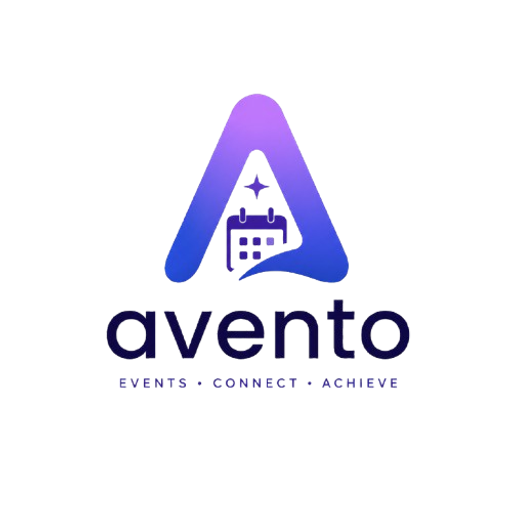
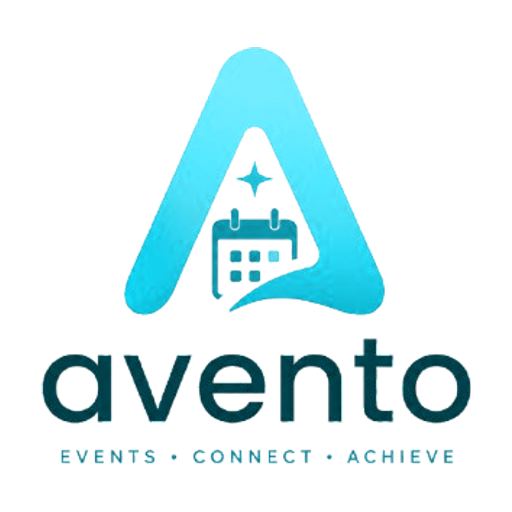
few small changes

Changed region(s): [[0.0625, 0.0938, 0.9375, 0.8438], [0.375, 0.875, 0.9062, 0.9062], [0.0938, 0.875, 0.3438, 0.9062]]

diff --git a/client/src/components/EventCard.jsx b/client/src/components/EventCard.jsx
@@ -1,3 +1,4 @@
+import { useState, useEffect } from 'react';
 import { useAuth } from '../context/AuthContext';
 import { Link } from 'react-router-dom';
 import { 
@@ -12,6 +13,20 @@ import {
 
 const EventCard = ({ event, index = 0, isRegistered, isPendingRegistration, isOrganizer, joinTeamEnabled, requestStatus, onRegister, onJoinTeam, isSubmitting, onViewOrganizers, onViewScores, onCancelRegister }) => {
   const { user } = useAuth();
+  const [showPosterZoom, setShowPosterZoom] = useState(false);
+
+  useEffect(() => {
+    if (!showPosterZoom) return;
+    const handleKeyDown = (e) => {
+      if (e.key === 'Escape') setShowPosterZoom(false);
+    };
+    document.addEventListener('keydown', handleKeyDown);
+    document.body.style.overflow = 'hidden';
+    return () => {
+      document.removeEventListener('keydown', handleKeyDown);
+      document.body.style.overflow = 'unset';
+    };
+  }, [showPosterZoom]);
   
   const formatDate = (dateString) => {
     const options = { weekday: 'short', month: 'short', day: 'numeric', year: 'numeric', hour: '2-digit', minute: '2-digit' };
@@ -48,30 +63,45 @@ const EventCard = ({ event, index = 0, isRegistered, isPendingRegistration, isOr
   const randomRotation = rotationClasses[index % rotationClasses.length];
 
   return (
-    <div 
-      className={`animate-fade-in-up polaroid scrapbook-panel-hover relative flex w-full min-w-0 flex-col h-full group ${randomRotation}`}
-      style={{ animationDelay: `${staggerDelay}ms` }}
-    >
-      {/* Decorative Tape/Pin */}
-      <div className="absolute -top-3 left-1/2 -translate-x-1/2 z-20">
-        {index % 2 === 0 ? <div className="tape tape-1"></div> : <PinDoodle className="w-8 h-8 text-pastel-coral" />}
-      </div>
+    <>
+      <div 
+        className={`animate-fade-in-up polaroid relative flex w-full min-w-0 flex-col h-full group ${randomRotation}`}
+        style={{ animationDelay: `${staggerDelay}ms` }}
+      >
+        {/* Decorative Tape/Pin */}
+        <div className="absolute -top-3 left-1/2 -translate-x-1/2 z-20">
+          {index % 2 === 0 ? <div className="tape tape-1"></div> : <PinDoodle className="w-8 h-8 text-pastel-coral" />}
+        </div>
 
-      {/* Decorative Category Doodle */}
-      <div className="absolute -right-2 -top-2 z-20 animate-float-slow">
-        {catStyle.doodle}
-      </div>
+        {/* Decorative Category Doodle */}
+        <div className="absolute -right-2 -top-2 z-20 animate-float-slow">
+          {catStyle.doodle}
+        </div>
 
-      {/* Event Banner */}
-      <div className="relative h-72 w-full overflow-hidden rounded-xl border-2 border-pastel-lavender/20 bg-slate-50 mb-4 sm:h-96">
-        <img
-          src={event.imageUrl}
-          alt={event.title}
-          className="w-full h-full object-contain group-hover:scale-105 transition-transform duration-700 ease-out-expo"
-          onError={(e) => {
-            e.target.src = 'https://images.unsplash.com/photo-1540575467063-178a50c2df87?w=800';
-          }}
-        />
+        {/* Event Banner (Click to Zoom) */}
+        <div 
+          onClick={() => setShowPosterZoom(true)}
+          className="relative h-48 sm:h-52 w-full overflow-hidden rounded-xl border-2 border-pastel-lavender/20 bg-slate-50 mb-3 cursor-pointer group/poster"
+          title="Click to zoom poster & view details"
+        >
+          <img
+            src={event.imageUrl}
+            alt={event.title}
+            className="w-full h-full object-contain"
+            onError={(e) => {
+              e.target.src = 'https://images.unsplash.com/photo-1540575467063-178a50c2df87?w=800';
+            }}
+          />
+
+          {/* Hover Zoom Badge */}
+          <div className="absolute inset-0 bg-slate-900/30 opacity-0 group-hover/poster:opacity-100 transition-opacity duration-200 flex items-center justify-center">
+            <span className="bg-white/95 dark:bg-slate-900/95 backdrop-blur-md text-text-primary text-[11px] font-bold px-3 py-1.5 rounded-xl border border-white/40 shadow-lg flex items-center gap-1.5 transform scale-95 group-hover/poster:scale-100 transition-transform">
+              <svg xmlns="http://www.w3.org/2000/svg" className="h-3.5 w-3.5 text-cyan-500" fill="none" viewBox="0 0 24 24" stroke="currentColor">
+                <path strokeLinecap="round" strokeLinejoin="round" strokeWidth={2.5} d="M21 21l-6-6m2-5a7 7 0 11-14 0 7 7 0 0114 0zM10 7v6m3-3H7" />
+              </svg>
+              View Full Poster
+            </span>
+          </div>
 
         {/* Category Badge */}
         <span className={`absolute bottom-3 left-3 text-[10px] font-bold px-3 py-1 rounded-xl border-2 backdrop-blur-md shadow-sm bg-white/90 ${catStyle.text} ${catStyle.border} uppercase tracking-wider`}>
@@ -97,9 +127,9 @@ const EventCard = ({ event, index = 0, isRegistered, isPendingRegistration, isOr
       </div>
 
       {/* Card Content */}
-      <div className="flex flex-col flex-grow px-2">
+      <div className="flex flex-col flex-grow px-1">
         {/* Date & Time */}
-        <div className="flex items-center text-xs text-pastel-coral font-bold mb-2 tracking-wider uppercase font-quicksand">
+        <div className="flex items-center text-xs text-pastel-coral font-bold mb-1.5 tracking-wider uppercase font-quicksand">
           <svg xmlns="http://www.w3.org/2000/svg" className="h-4 w-4 mr-1.5" fill="none" viewBox="0 0 24 24" stroke="currentColor">
             <path strokeLinecap="round" strokeLinejoin="round" strokeWidth={2} d="M8 7V3m8 4V3m-9 8h10M5 21h14a2 2 0 002-2V7a2 2 0 00-2-2H5a2 2 0 00-2 2v12a2 2 0 002 2z" />
           </svg>
@@ -107,20 +137,20 @@ const EventCard = ({ event, index = 0, isRegistered, isPendingRegistration, isOr
         </div>
 
         {/* Title */}
-        <h3 className="text-xl font-heading font-bold text-text-primary mb-2">
+        <h3 className="text-lg font-heading font-bold text-text-primary mb-1.5 line-clamp-2" title={event.title}>
           {event.title}
         </h3>
 
         {/* Description */}
-        <p className="text-sm font-body text-text-secondary mb-4 flex-grow leading-relaxed whitespace-pre-wrap">
+        <p className="text-xs sm:text-sm font-body text-text-secondary mb-3 flex-grow leading-relaxed line-clamp-3 whitespace-pre-wrap">
           {event.description}
         </p>
 
         {/* Wavy divider */}
[2 lines of base64/hex data omitted]
 
         {/* Venue & Organizers Count */}
-        <div className="flex items-center justify-between text-xs text-text-secondary mb-4 font-bold font-quicksand">
+        <div className="flex items-center justify-between text-xs text-text-secondary mb-3 font-bold font-quicksand">
           <div className="flex items-center">
             <svg xmlns="http://www.w3.org/2000/svg" className="h-4 w-4 mr-1.5 text-pastel-lavender" fill="none" viewBox="0 0 24 24" stroke="currentColor">
               <path strokeLinecap="round" strokeLinejoin="round" strokeWidth={2} d="M17.657 16.657L13.414 20.9a1.998 1.998 0 01-2.827 0l-4.244-4.243a8 8 0 1111.314 0z" />
@@ -135,7 +165,7 @@ const EventCard = ({ event, index = 0, isRegistered, isPendingRegistration, isOr
 
         {/* Capacity Bar */}
         {event.registration_type !== 'team' && (
-          <div className="space-y-1.5 mb-5">
+          <div className="space-y-1.5 mb-3">
             <div className="flex items-center justify-between text-[10px] font-bold tracking-wide font-quicksand">
               <span className="text-text-secondary uppercase">Seats Filled</span>
               <span className={isFull ? 'text-pastel-coral' : 'text-pastel-lavender'}>
@@ -336,6 +366,161 @@ const EventCard = ({ event, index = 0, isRegistered, isPendingRegistration, isOr
         </div>
       </div>
     </div>
+
+    {/* ════════════ ZOOMED POSTER & DETAILS MODAL ════════════ */}
+    {showPosterZoom && (
+      <div 
+        className="fixed inset-0 z-[99999] flex items-center justify-center p-3 sm:p-6 bg-slate-950/75 backdrop-blur-md animate-fade-in"
+        onClick={() => setShowPosterZoom(false)}
+      >
+        <div 
+          className="relative w-full max-w-4xl max-h-[90vh] bg-white dark:bg-slate-900 border-2 border-cyan-500/30 rounded-2xl sm:rounded-3xl shadow-2xl overflow-hidden flex flex-col animate-fade-in-scale"
+          onClick={(e) => e.stopPropagation()}
+        >
+          {/* Header */}
+          <div className="flex items-center justify-between px-4 sm:px-6 py-3.5 border-b border-slate-100 dark:border-slate-800 bg-white/95 dark:bg-slate-900/95 backdrop-blur-md sticky top-0 z-30">
+            <div className="flex items-center gap-2.5 min-w-0 pr-4">
+              <span className={`text-[10px] font-bold px-2.5 py-1 rounded-lg border uppercase tracking-wider ${catStyle.text} ${catStyle.border} bg-white/80 dark:bg-slate-800`}>
+                {event.category}
+              </span>
+              <h2 className="text-sm sm:text-lg font-heading font-bold text-text-primary truncate">{event.title}</h2>
+            </div>
+            <button
+              onClick={() => setShowPosterZoom(false)}
+              className="p-1.5 sm:p-2 rounded-xl text-slate-400 hover:text-red-500 hover:bg-red-500/10 transition-colors flex-shrink-0"
+              title="Close (Esc)"
+            >
+              <svg xmlns="http://www.w3.org/2000/svg" className="h-5 w-5 sm:h-6 sm:w-6" fill="none" viewBox="0 0 24 24" stroke="currentColor">
+                <path strokeLinecap="round" strokeLinejoin="round" strokeWidth={2.5} d="M6 18L18 6M6 6l12 12" />
+              </svg>
+            </button>
+          </div>
+
+          {/* Scrollable Modal Body */}
+          <div className="overflow-y-auto p-4 sm:p-6 space-y-6 flex-grow">
+            {/* Full Poster Image */}
+            <div className="relative w-full rounded-2xl overflow-hidden border border-slate-200 dark:border-slate-800 bg-slate-950/5 dark:bg-slate-950 flex items-center justify-center p-2 sm:p-4 shadow-inner">
+              <img
+                src={event.imageUrl}
+                alt={event.title}
+                className="w-full max-h-[55vh] sm:max-h-[62vh] object-contain rounded-xl"
+                onError={(e) => {
+                  e.target.src = 'https://images.unsplash.com/photo-1540575467063-178a50c2df87?w=800';
+                }}
+              />
+            </div>
+
+            {/* Event Details Section */}
+            <div className="space-y-4">
+              {/* Badges */}
+              <div className="flex flex-wrap items-center gap-2">
+                <span className={`text-xs font-bold px-3 py-1 rounded-xl border-2 backdrop-blur-md shadow-sm bg-white/90 ${catStyle.text} ${catStyle.border} uppercase tracking-wider`}>
+                  {event.category}
+                </span>
+                {!isActive && (
+                  <span className="text-xs font-bold px-3 py-1 rounded-xl border-2 bg-red-50 text-red-500 border-red-200 uppercase tracking-wider">
+                    {event.status.toUpperCase()}
+                  </span>
+                )}
+                {event.registration_type === 'team' && (
+                  <span className="text-xs font-bold px-3 py-1 rounded-xl border-2 bg-cyan-500/10 text-cyan-600 border-cyan-500/30 uppercase tracking-wider flex items-center gap-1.5">
+                    👥 Team Event ({event.min_team_size || 1} - {event.max_team_size || 4} Members)
+                  </span>
+                )}
+              </div>
+
+              {/* Title */}
+              <h1 className="text-xl sm:text-2xl lg:text-3xl font-extrabold font-heading text-text-primary leading-tight">
+                {event.title}
+              </h1>
+
+              {/* 4-Card Info Grid */}
+              <div className="grid grid-cols-1 sm:grid-cols-2 lg:grid-cols-4 gap-3 pt-1">
+                <div className="p-3.5 rounded-2xl bg-slate-50 dark:bg-slate-800/60 border border-slate-200 dark:border-slate-700">
+                  <div className="text-[10px] font-bold text-pastel-coral uppercase tracking-wider mb-1 flex items-center gap-1">
+                    <svg xmlns="http://www.w3.org/2000/svg" className="h-3.5 w-3.5" fill="none" viewBox="0 0 24 24" stroke="currentColor">
+                      <path strokeLinecap="round" strokeLinejoin="round" strokeWidth={2} d="M8 7V3m8 4V3m-9 8h10M5 21h14a2 2 0 002-2V7a2 2 0 00-2-2H5a2 2 0 00-2 2v12a2 2 0 002 2z" />
+                    </svg>
+                    Date & Time
+                  </div>
+                  <div className="text-xs sm:text-sm font-bold text-text-primary">{formatDate(event.date)}</div>
+                </div>
+
+                <div className="p-3.5 rounded-2xl bg-slate-50 dark:bg-slate-800/60 border border-slate-200 dark:border-slate-700">
+                  <div className="text-[10px] font-bold text-cyan-600 dark:text-cyan-400 uppercase tracking-wider mb-1 flex items-center gap-1">
+                    <svg xmlns="http://www.w3.org/2000/svg" className="h-3.5 w-3.5" fill="none" viewBox="0 0 24 24" stroke="currentColor">
+                      <path strokeLinecap="round" strokeLinejoin="round" strokeWidth={2} d="M17.657 16.657L13.414 20.9a1.998 1.998 0 01-2.827 0l-4.244-4.243a8 8 0 1111.314 0z" />
+                      <path strokeLinecap="round" strokeLinejoin="round" strokeWidth={2} d="M15 11a3 3 0 11-6 0 3 3 0 016 0z" />
+                    </svg>
+                    Venue
+                  </div>
+                  <div className="text-xs sm:text-sm font-bold text-text-primary">{event.venue || 'Campus Venue'}</div>
+                </div>
+
+                <div className="p-3.5 rounded-2xl bg-slate-50 dark:bg-slate-800/60 border border-slate-200 dark:border-slate-700">
+                  <div className="text-[10px] font-bold text-yellow-600 dark:text-yellow-400 uppercase tracking-wider mb-1 flex items-center gap-1">
+                    <svg xmlns="http://www.w3.org/2000/svg" className="h-3.5 w-3.5" fill="none" viewBox="0 0 24 24" stroke="currentColor">
+                      <path strokeLinecap="round" strokeLinejoin="round" strokeWidth={2} d="M17 20h5v-2a3 3 0 00-5.356-1.857M17 20H7m10 0v-2c0-.656-.126-1.283-.356-1.857M7 20H2v-2a3 3 0 015.356-1.857M7 20v-2c0-.656.126-1.283.356-1.857m0 0a5.002 5.002 0 019.288 0M15 7a3 3 0 11-6 0 3 3 0 016 0zm6 3a2 2 0 11-4 0 2 2 0 014 0zM7 10a2 2 0 11-4 0 2 2 0 014 0z" />
+                    </svg>
+                    Organizers
+                  </div>
+                  <div className="text-xs sm:text-sm font-bold text-text-primary">{event.organizersCount || 0} Team Members</div>
+                </div>
+
+                <div className="p-3.5 rounded-2xl bg-slate-50 dark:bg-slate-800/60 border border-slate-200 dark:border-slate-700">
+                  <div className="text-[10px] font-bold text-emerald-600 dark:text-emerald-400 uppercase tracking-wider mb-1 flex items-center gap-1">
+                    <svg xmlns="http://www.w3.org/2000/svg" className="h-3.5 w-3.5" fill="none" viewBox="0 0 24 24" stroke="currentColor">
+                      <path strokeLinecap="round" strokeLinejoin="round" strokeWidth={2} d="M9 12l2 2 4-4m6 2a9 9 0 11-18 0 9 9 0 0118 0z" />
+                    </svg>
+                    Capacity
+                  </div>
+                  <div className="text-xs sm:text-sm font-bold text-text-primary">
+                    {event.registration_type === 'team'
+                      ? `${currCount} / ${event.max_teams || '∞'} Teams`
+                      : `${currCount} / ${event.capacity || '∞'} Seats`}
+                  </div>
+                </div>
+              </div>
+
+              {/* Full Description */}
+              <div className="pt-2">
+                <h4 className="text-xs font-bold uppercase tracking-wider text-text-secondary font-quicksand mb-2">Event Description</h4>
+                <p className="text-xs sm:text-sm font-body text-text-secondary leading-relaxed whitespace-pre-wrap bg-slate-50/70 dark:bg-slate-800/40 p-4 sm:p-5 rounded-2xl border border-slate-100 dark:border-slate-800">
+                  {event.description}
+                </p>
+              </div>
+
+              {/* Action Buttons inside Modal */}
+              <div className="pt-3 border-t border-slate-200 dark:border-slate-800 flex flex-wrap gap-2.5 items-center justify-end">
+                {isActive && (
+                  <button
+                    onClick={() => { setShowPosterZoom(false); onViewOrganizers(); }}
+                    className="px-4 py-2 text-xs font-bold rounded-xl bg-cyan-500/10 text-cyan-600 border border-cyan-500/30 hover:bg-cyan-500/20 transition-all"
+                  >
+                    View Organizers
+                  </button>
+                )}
+                {isActive && event.scoring_enabled && event.scoreboard_visible && (
+                  <button
+                    onClick={() => { setShowPosterZoom(false); onViewScores(); }}
+                    className="px-4 py-2 text-xs font-bold rounded-xl border border-emerald-500/30 bg-emerald-500/10 text-emerald-600 hover:bg-emerald-500/20 transition-all"
+                  >
+                    View Scoreboard
+                  </button>
+                )}
+                <button
+                  onClick={() => setShowPosterZoom(false)}
+                  className="px-5 py-2 text-xs font-bold rounded-xl bg-gray-100 dark:bg-slate-800 text-text-primary hover:bg-gray-200 dark:hover:bg-slate-700 transition-colors"
+                >
+                  Close Preview
+                </button>
+              </div>
+            </div>
+          </div>
+        </div>
+      </div>
+    )}
+  </>
   );
 };
 

diff --git a/client/src/components/SplashScreen.jsx b/client/src/components/SplashScreen.jsx
@@ -118,7 +118,7 @@ const SplashScreen = () => {
       </div>
 
       {/* ── Soft ambient glow behind logo ── */}
-      <div className="absolute w-96 h-96 rounded-full bg-gradient-to-tr from-[#B8A8FF]/30 via-[#F4978E]/20 to-[#FFF1A6]/35 blur-3xl animate-pulse pointer-events-none" />
+      <div className="absolute w-96 h-96 rounded-full bg-gradient-to-tr from-[#06b6d4]/25 via-[#A5F3FC]/20 to-[#38bdf8]/25 blur-3xl animate-pulse pointer-events-none" />
 
       {/* ── Main Content — Ultra-smooth entrance ── */}
       <div
@@ -128,11 +128,11 @@ const SplashScreen = () => {
       >
         {/* Logo — Noticeably bigger */}
         <div className="relative mb-8 flex items-center justify-center">
-          <div className="absolute -inset-6 bg-gradient-to-r from-[#B8A8FF]/20 to-[#F4978E]/20 rounded-3xl blur-xl" />
+          <div className="absolute -inset-6 bg-gradient-to-r from-[#06b6d4]/20 to-[#A5F3FC]/20 rounded-3xl blur-xl" />
           <img
             src="/logo.png?v=3"
             alt="Avento Logo"
-            className="relative h-36 md:h-44 lg:h-52 w-auto object-contain drop-shadow-lg"
+            className="relative h-36 md:h-44 lg:h-52 w-auto object-contain drop-shadow-lg logo-cyan-tint"
           />
         </div>
 
@@ -141,9 +141,9 @@ const SplashScreen = () => {
           University Event Management Platform
         </p>
 
-        {/* Progress bar — wider, tri-color gradient */}
+        {/* Progress bar — cyan gradient */}
         <div className="w-48 h-1.5 bg-slate-200/70 rounded-full overflow-hidden shadow-inner">
-          <div className="h-full bg-gradient-to-r from-[#B8A8FF] via-[#F4978E] to-[#FFF1A6] rounded-full animate-splash-progress" />
+          <div className="h-full bg-gradient-to-r from-[#06b6d4] via-[#38bdf8] to-[#A5F3FC] rounded-full animate-splash-progress" />
         </div>
       </div>
     </div>

diff --git a/client/src/pages/Home.jsx b/client/src/pages/Home.jsx
@@ -641,13 +641,13 @@ const Home = () => {
 
         {/* ── Events Grid ── */}
         {loading ? (
-          <div className="grid w-full grid-cols-1 gap-8">
+          <div className="grid w-full grid-cols-1 sm:grid-cols-2 lg:grid-cols-3 gap-6">
             {[...Array(6)].map((_, i) => (
-              <div key={i} className="polaroid h-[420px] animate-pulse overflow-hidden">
-                <div className="h-48 bg-gray-200 rounded-xl mb-4" />
-                <div className="space-y-3 px-2">
+              <div key={i} className="polaroid h-[380px] animate-pulse overflow-hidden">
+                <div className="h-44 bg-gray-200 rounded-xl mb-3" />
+                <div className="space-y-2.5 px-2">
                   <div className="h-3 w-24 bg-pastel-coral/50 rounded-full" />
-                  <div className="h-6 w-3/4 bg-gray-200 rounded-full" />
+                  <div className="h-5 w-3/4 bg-gray-200 rounded-full" />
                   <div className="h-3 w-full bg-gray-100 rounded-full" />
                   <div className="h-3 w-2/3 bg-gray-100 rounded-full" />
                 </div>
@@ -674,7 +674,7 @@ const Home = () => {
             <p className="text-sm text-text-secondary max-w-sm mx-auto font-body">There are no events matching your search or filters at the moment.</p>
           </div>
         ) : (
-          <div className="grid w-full grid-cols-1 gap-8">
+          <div className="grid w-full grid-cols-1 sm:grid-cols-2 lg:grid-cols-3 gap-6">
             {events.map((evt, index) => (
               <EventCard
                 key={evt._id || evt.id}

diff --git a/client/index.html b/client/index.html
@@ -12,10 +12,11 @@
         } catch (e) {}
       })();
     </script>
-    <link rel="icon" type="image/x-icon" href="/favicon.ico" />
-    <link rel="icon" type="image/png" sizes="16x16" href="/favicon-16x16.png" />
-    <link rel="icon" type="image/png" sizes="32x32" href="/favicon-32x32.png" />
-    <link rel="apple-touch-icon" sizes="180x180" href="/apple-touch-icon.png" />
+    <link rel="icon" type="image/svg+xml" href="/favicon.svg?v=5" />
+    <link rel="icon" type="image/x-icon" href="/favicon.ico?v=5" />
+    <link rel="icon" type="image/png" sizes="16x16" href="/favicon-16x16.png?v=5" />
+    <link rel="icon" type="image/png" sizes="32x32" href="/favicon-32x32.png?v=5" />
+    <link rel="apple-touch-icon" sizes="180x180" href="/apple-touch-icon.png?v=5" />
     <link rel="manifest" href="/site.webmanifest" />
     <meta name="viewport" content="width=device-width, initial-scale=1.0" />
     <meta name="description" content="AVENTO — Your premium university campus events hub. Discover, register and manage workshops, cultural nights, hackathons and more." />

diff --git a/client/src/index.css b/client/src/index.css
@@ -68,7 +68,6 @@ h1, h2, h3, h4, h5, h6 {
 }
 
 .polaroid:hover {
-  transform: translateY(-5px) scale(1.02) rotate(-2deg);
   z-index: 10;
 }
 
